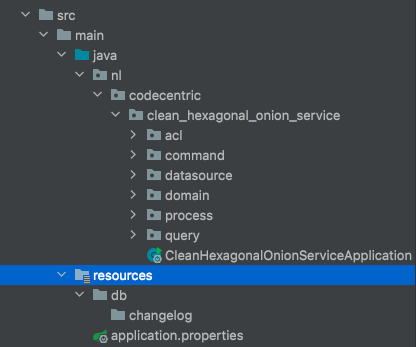
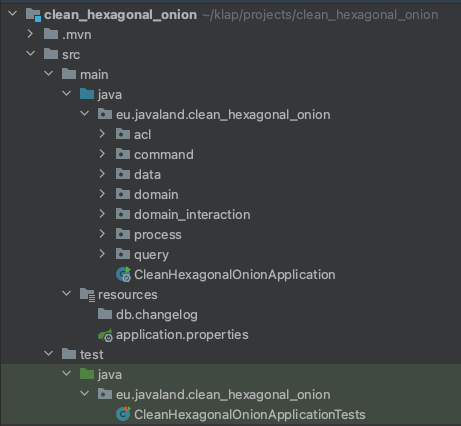
updated for javaland

Changed region(s): [[0.0, 0.0, 1.0, 1.0]]

diff --git a/docs/4-create-author-command.md b/docs/4-create-author-command.md
@@ -3,7 +3,7 @@ sidebar_position: 4
 ---
 
 # Create the register Author command
-For this step you will need to create classes and an interface in three parts of the "clean hexagonal onion".
+For this step you will need to create classes and an interface in three packages of the "clean_hexagonal_onion" project.
 
 ### Command
 We need to create a REST endpoint that allows us to register Authors.
@@ -19,30 +19,34 @@ Content-Type: application/json
   "lastName": "PLACE_YOUR_LAST_NAME"
 }
 ```
-This endpoint should create an Author from the given DTO payload and call the register function of an author on the 
-domain interaction layer service. The standard response should be empty with a status code 202.
+This endpoint should create an Author from the given Data Transfer Object (DTO) (or payload) and call the register
+function of an author on the domain interaction layer service. The standard response should be empty with status code 202.
 
-### Core Domain
-According to the domain model we need to create the class ```/domain/author/Author.java``` in our domain. To 
+> Tip: You can add the above snippet in a file ``./http/AuthorCommands.http`` which allows you to execute the request
+> from inside your IDE (if supported, IntelliJ does).
+
+### Domain Core
+According to the domain model we need to create the class ```/domain/author/Author.java``` in our domain package. To 
 keep control of the creation of our aggregates we make the all args constructor private and instead create a 
-factory method ``public static Author createAuthor(String fristName, String lastName)``.
-For now that is all we need. No getters, no setters, or builders needed for now. In case you are asking yourself: 
-_And what about the id?_ Rest assured! We will solve this later. It remains null for now.
+factory method ``public static Author createAuthor(String fristName, String lastName)``. Only our factory method will
+access the private all args constructor. That way we can keep control of the creation of Authors at all times outside our domain package.
+For now that is all we need. No getters, no setters or builders needed for now. In case you are asking yourself: 
+_And what about the id?_ Rest assured! We will solve this one later. It remains _null_ for now.
 
 ![author.png](author.png)
 
-### Domain interaction layer
-In order to be able to interact with or persist our core domain objects we need to define an interface
-```/domain/author/AuthorService.java``` in our domain package according to the domain model. We now inject this into 
+### Domain Interaction Layer
+In order to be able to interact with our core domain entities we need to define the interface
+```/domain_interaction/author/AuthorService.java``` in our domain package according to the domain model. We now inject this into 
 our ```AuthorCommands.java```class in the constructor (you could autowire it but let's stick to constructor injection).
 Nice to know: this complies with the SOLID principle of 'dependency inversion'.
 
 ![author-service.png](author-service.png)
 
-### Data Source
-No injection without at least one Spring Bean implementing the interface. In ```/datasource/author/AuthorServiceImpl.
+### Data
+No injection without at least one Spring Bean implementing the interface. In ```/data/author/AuthorServiceImpl.
 java``` we implement ```/domain/author/AuthorService.java``` and annotate it with the ```@Service``` annotation from Spring. 
-For now, simply add a log statement to the method ``void registerAuthor(Author author)``.
+For now, simply add a log statement of your choice to the implementation of the method ``void registerAuthor(Author author)``.
 
 ### Validation
 Let's test our code. Feel free to write your own test. Alternatively, copy and paste this test class into your project 

diff --git a/docs/5-persist-author-data.md b/docs/5-persist-author-data.md
@@ -82,13 +82,14 @@ create file src/main/resources/db/changelog/02_create_author_table.xml with cont
 ### Persistence with JPA
 Following the clear segregation of duties in our "clean hexagonal onion", we need to create a number of classes to 
 achieve persistence. This can seem overkill at first, but remember, DDD is not for small POCs or start up projects. 
-It is designed to solve complexity for bigger projects, and so is our "clean hexagonal onion".
+It is designed to solve complexity for bigger projects, and so is our "clean hexagonal onion". We value simplicity,
+clarity and maintainability over cleverness and complexity.
 
 We will need to create a JPA entity for our Author, a mapper class that maps from domain to JPA, and an actual JPA 
 repository interface that links our entity to the DB.
 
 #### JPA entity
-create a class ``/datasource/AuthorJPA.java`` annotated with
+create a class ``/data/AuthorJPA.java`` annotated with
 
 ```java
 @Entity
@@ -101,8 +102,8 @@ Fill this class with the same fields as the Author.java class. By adding this JP
 the domain aggregate, we keep the domain only loosely coupled to the domain core. Usually, what we often see in Spring 
 applications is that the domain aggregate is the data entity and domain entity/aggregate at the same time.
 
-Having created that class, we now need to teach our AuthorJPA data model where to get the id from in the DB. For that 
-purpose we already created the liquibase script that generated an author_seq for us.
+Having created that class, we now need to teach our AuthorJPA data model where to get the id from in the DB. We have 
+already created the liquibase script that generates an author_seq for us.
 We annotate our id field with the following:
 ```java
 @Id
@@ -111,19 +112,22 @@ We annotate our id field with the following:
 ```
 
 #### JPA repository
-create an interface ``/datasource/AuthorRepository.java`` that extends ``JPARepository<Author, Long>`` and annotate 
+create an interface ``/data/AuthorRepository.java`` that extends ``JPARepository<AuthorJPA, Long>`` and annotate 
 the interface with ``@Repository``
 
 #### JPA to domain Mapper
-Since we decoupled our data model from the actual domain model, we need to teach our application how to map between 
-domain and data model. There are fancy libraries for this such as mapstruct but let us code it ourselves for now.
+Since we want to decouple our data model from the actual domain model, we need to teach our application how to map between 
+domain and data model. There are fancy libraries for this such as [mapstruct](https://mapstruct.org/) but let us code 
+it ourselves for now.
 
-Create a class ``/datasource/AuthorMapper.java`` with a method that maps all fields of Author.class to the 
+Create a class ``/data/AuthorMapper.java`` with a method that maps all fields of Author.class to the 
 corresponding fields of AuthorJPA.class and returns the instance of it.
 Method signature:
 ```java
 public static AuthorJPA mapToJPA(Author author)
 ```
+
+> Hint: You may need to add some getters. And you can make use of the builder pattern.
 
 #### Updating the AuthorServiceImpl.java
 In the previous task we only added a log statement to the ``AuthorServiceImpl.registerAuthor`` implementation.

diff --git a/docs/2.setting-up-an-initial-application.md b/docs/2.setting-up-an-initial-application.md
@@ -7,18 +7,21 @@ sidebar_position: 2
 Setting up the project from scratch would take up too much time and focus away from the important content of this 
 workshop. Hence, I took the liberty of preparing a repository that you can fork or clone.
 
-(Button to GitHub in the header menu up top or c&p this link: https://github.com/MaikKingma/clean-hexagonal-onion-service)
+Button to GitHub is located in the header menu. Alternatively, click 
+[here](https://github.com/MaikKingma/javaland-clean-hexagonal-onion).
 
-Checkout this branch:
-``git checkout setup-done``
+You can either check out the prepared setup branch or, optionally set the project up yourself.
+
+```git checkout setup-done```
 
 If you checked out this branch then you can proceed to the validation step and skip the following _**OPTIONAL**_ steps.
-(there are still some mandatory steps after the optional ones)
+(there are still some mandatory steps after the optional ones). If you chose to set up the project yourself,
+ please follow the **_OPTIONAL_** steps.
 
 ### OPTIONAL: DO IT YOURSELF
 
 If you feel like you want to do it all yourself you can use Spring Initializr to setup our spring boot project.
-- Go to the [Spring Initializr](https://start.spring.io/)
+- Go to the [Spring Initializr](https://bit.ly/javaland-spring-init)
 - Choose your Project Dependency Manager of your choice (Maven or Gradle).
 - Choose your Language of choice.
 - For the Spring Boot version at least 2.7.0.
@@ -49,7 +52,7 @@ spring.datasource.password=postgres
 
 and create a ``./docker-compose.yml`` file and paste this content into it:
 ```yaml
-version: '3.1'
+version: '3.9'
 
 services:
   postgres:
@@ -60,15 +63,23 @@ services:
       POSTGRES_PASSWORD: postgres
       POSTGRES_DB: clean-hexagonal-onion-service
     ports:
-      - "5432:5432"
-    network_mode: "bridge"
+      - '5432:5432'
+    healthcheck:
+      test: ["CMD-SHELL", "pg_isready -d $${POSTGRES_DB} -U $${POSTGRES_USER}"]
+      interval: 10s
+      timeout: 5s
+      retries: 5
 ```
 
 ## Validate
-Run the docker-compose script from the IDE or from the terminal with ``docker-compose up --build``.
+Run the docker-compose script from the IDE or from the terminal with ``docker compose up --build``.
 Last but not least, in order to avoid errors for now, please comment out the liquibase dependency in your ``./pom.xml``.
+
+> You may have to enable annotation processing in your IDE for the Lombok dependency.
+
 Validate that the Spring application starts by running the application (without any errors).
+similar to this:
+![package-structure.png](spring-first-run.png)
 
-
-
+All green? Well done! We are now ready to move on to the next chapter.
 

diff --git a/docs/1.intro.md b/docs/1.intro.md
@@ -2,18 +2,16 @@
 sidebar_position: 1
 ---
 
-# Expert Workshop Intro
+# Workshop Intro
 Welcome to the **Clean hexagonal onion with a Dash of DDD in Spring** workshop at Javaland 2023.
 My name is Maik Kingma, and I will be your coach for today. Since I cannot be with everyone simultaneously, 
 these docs will provide you with a step-by-step guide.
 
-Keep validating your work after every chapter.
-In case you get stuck somewhere along the way, you can always continue the workshop on a code base snapshot from
-one of the prepared branches that provide you the solution of each chapter.
-
 ## Getting Help
 I will do my best to answer all the questions. We will have sync moments regularly throughout the workshop, where we can
-discuss questions together.
+discuss questions together. Keep validating your work after every chapter.
+In case you get stuck somewhere along the way, you can always continue the workshop on a code base snapshot from
+one of the prepared branches that provide you the solution of each chapter.
 
 ### Time management
 There are 6 implementation chapters in total. They become increasingly complex.
@@ -34,6 +32,11 @@ else{
 - Docker Desktop
 - An IDE of your choice (ideally IntelliJ)
 - an Internet connection
+
+### TDD
+If you want there is the possibility to do Test Driven Development. At the end of each chapter you
+will find a happy flow unit test, in some cases also an integration test.
+You can use these to do TDD.
 
 ### Side note
 The purpose of this workshop is to get to know the Clean Hexagonal Onion pattern and how to apply it in combination with
